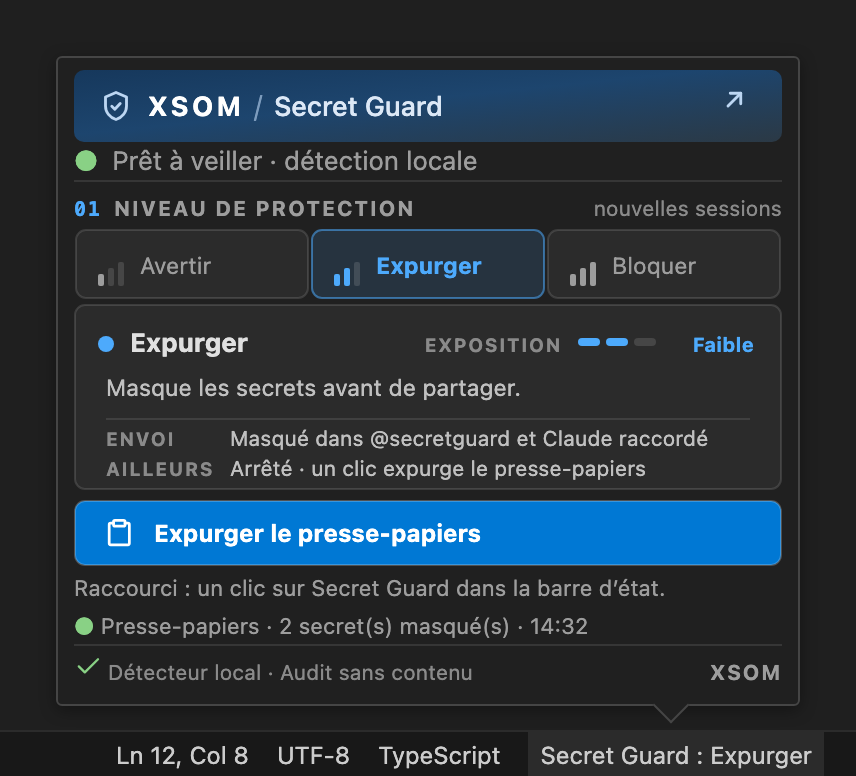
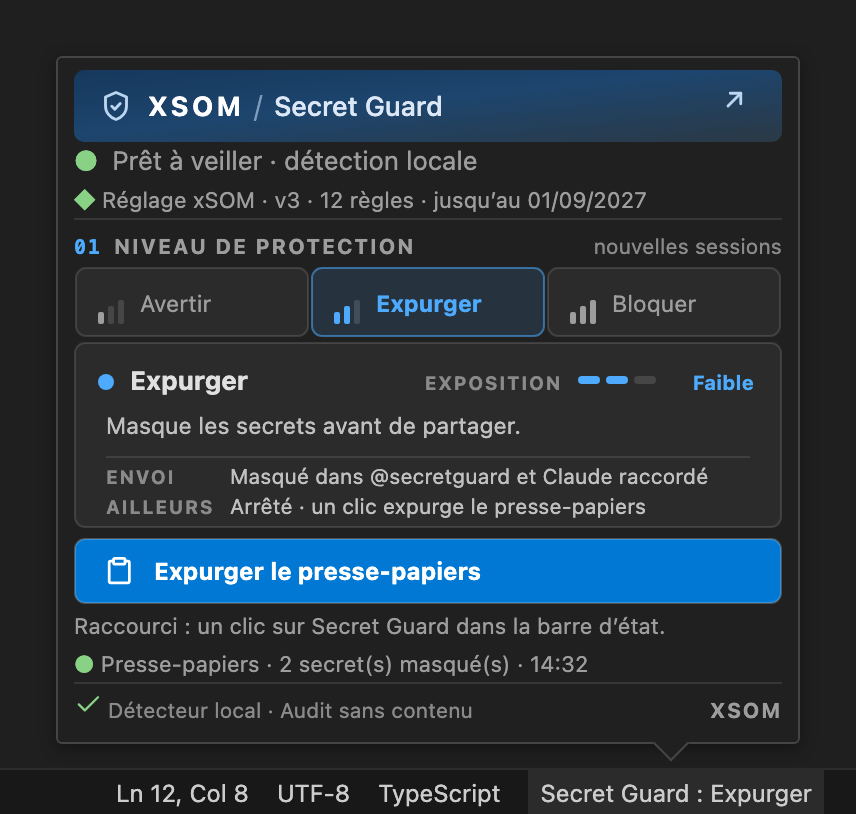
feat(site): Secret Guard 0.7, réglages sur mesure disponibles
La clé d'autorité xSOM est en place et la plateforme déployée : « pilote »
disparaît des réglages sur mesure (page Secret Guard, offres, gamme,
console), et « poste compatible » devient un poste à jour. L'image du
panneau est régénérée depuis l'extension 0.7.0, poste Équipe avec la
ligne du réglage xSOM ; la carte des boutons suit.

diff --git a/frontend/components/guard-offers-copy.ts b/frontend/components/guard-offers-copy.ts
@@ -9,7 +9,7 @@ export const GUARD_OFFERS_COPY = {
     intro: "Commencez gratuitement. Évaluez le cadre d’équipe sur vos usages. Choisissez ensuite le niveau de gouvernance et d’accompagnement dont vous avez besoin.",
     offers: [
       { id: "local", name: "Secret Guard Local", audience: "Pour chaque développeur", price: "0 €", unit: "sans limite de durée", badge: "Gratuit", body: "Retenez les secrets avant leur envoi dans les prompts pris en charge.", features: ["Détection locale, sans envoi au cloud pour analyser", "Sans compte obligatoire ni carte bancaire", "Sans quota de scans locaux"], action: "Installer gratuitement", href: "/secret-guard", note: "Extension VSIX. Les chemins compatibles sont détaillés à l’installation. Le contrôle local reste désactivable par l’utilisateur." },
-      { id: "team", name: "Secret Guard Équipe", audience: "Pour les équipes de développement", price: "24 €", unit: "HT / poste actif / mois · tarif cible", badge: "90 jours de découverte offerts", body: "Donnez aux agents un cadre commun et à votre équipe un interlocuteur cyber.", features: ["Politiques signées et validations ciblées", "Règles sur mesure calibrées et signées par xSOM (pilote)", "État du parc et preuves de décision minimales", "Périmètre et support définis avec xSOM"], action: "Demander mes 90 jours", href: PILOT_MAILTO, note: "Jusqu’à 10 postes, après qualification et accord de pilote. Sans carte. La souscription payante exige votre accord ; aucun prélèvement automatique." },
+      { id: "team", name: "Secret Guard Équipe", audience: "Pour les équipes de développement", price: "24 €", unit: "HT / poste actif / mois · tarif cible", badge: "90 jours de découverte offerts", body: "Donnez aux agents un cadre commun et à votre équipe un interlocuteur cyber.", features: ["Politiques signées et validations ciblées", "Règles sur mesure calibrées et signées par xSOM", "État du parc et preuves de décision minimales", "Périmètre et support définis avec xSOM"], action: "Demander mes 90 jours", href: PILOT_MAILTO, note: "Jusqu’à 10 postes, après qualification et accord de pilote. Sans carte. La souscription payante exige votre accord ; aucun prélèvement automatique." },
       { id: "reinforced", name: "Secret Guard Renforcé", audience: "Pour les environnements sensibles", price: "Sur devis", unit: "Prestation de conseil xSOM, chiffrée sur votre périmètre", badge: "Accompagnement conseil", body: "Ajoutez un environnement contraint au cadre d’équipe, déployé avec les consultants xSOM.", features: ["Socle Équipe et session de travail isolée", "Restrictions de fichiers, privilèges et réseau", "Déploiement et engagements de service sur devis"], action: "Demander un devis", href: REINFORCED_MAILTO, note: "Référence Linux validée localement. macOS, Windows et gestion de parc à qualifier. Intégration et exploitation chiffrées séparément." },
     ],
     priceNote: "Tarifs cibles de lancement, confirmés par devis avant toute souscription. Les abonnements aux assistants IA restent à votre charge. La découverte porte sur la licence Équipe ; toute prestation spécifique fait l’objet d’un devis préalable.",
@@ -28,7 +28,7 @@ export const GUARD_OFFERS_COPY = {
     intro: "Start for free. Evaluate team governance in your own workflows. Then choose the governance and support your organisation needs.",
     offers: [
       { id: "local", name: "Secret Guard Local", audience: "For every developer", price: "€0", unit: "with no time limit", badge: "Free", body: "Hold secrets back before they leave in supported prompts.", features: ["Local detection, no cloud upload for analysis", "No mandatory account or payment card", "No local scan quota"], action: "Install for free", href: "/secret-guard", note: "VSIX extension. Supported paths are detailed at installation. The user can disable the local control." },
-      { id: "team", name: "Secret Guard Team", audience: "For development teams", price: "€24", unit: "excl. VAT / active workstation / month · target price", badge: "90 days of free discovery", body: "Give agents shared rules and your team an accountable security partner.", features: ["Signed policies and focused approvals", "Custom rules calibrated and signed by xSOM (pilot)", "Fleet posture and minimal decision evidence", "Scope and support agreed with xSOM"], action: "Request my 90 days", href: PILOT_MAILTO, note: "Up to 10 workstations, after qualification and a pilot agreement. No card. Paid subscriptions require your agreement; no automatic charge." },
+      { id: "team", name: "Secret Guard Team", audience: "For development teams", price: "€24", unit: "excl. VAT / active workstation / month · target price", badge: "90 days of free discovery", body: "Give agents shared rules and your team an accountable security partner.", features: ["Signed policies and focused approvals", "Custom rules calibrated and signed by xSOM", "Fleet posture and minimal decision evidence", "Scope and support agreed with xSOM"], action: "Request my 90 days", href: PILOT_MAILTO, note: "Up to 10 workstations, after qualification and a pilot agreement. No card. Paid subscriptions require your agreement; no automatic charge." },
       { id: "reinforced", name: "Secret Guard Reinforced", audience: "For sensitive environments", price: "On quote", unit: "xSOM consulting engagement, priced for your scope", badge: "Consulting engagement", body: "Add a constrained environment to team governance, deployed with xSOM consultants.", features: ["Team foundation and isolated work session", "File, privilege and network restrictions", "Quoted deployment and service commitments"], action: "Request a quote", href: REINFORCED_MAILTO, note: "Linux reference validated locally. macOS, Windows and fleet management require qualification. Integration and operations are quoted separately." },
     ],
     priceNote: "Target launch prices, confirmed by a quote before subscription. AI assistant subscriptions remain your expense. Discovery covers the Team licence; any custom services require a prior quote.",

diff --git a/frontend/components/rules/rules-copy.ts b/frontend/components/rules/rules-copy.ts
@@ -23,7 +23,7 @@ const FR = {
     operatorLink: "Atelier opérateur xSOM →",
     emptyTitle: "Aucun réglage sur mesure pour l’instant",
     emptyBody:
-      "Le réglage fait partie de Secret Guard Équipe : xSOM calibre des détecteurs sur vos identifiants clients, noms de projets et formats internes, et les signe ; un poste compatible les applique sans réseau. Les règles intégrées restent actives dans tous les cas.",
+      "Le réglage fait partie de Secret Guard Équipe : xSOM calibre des détecteurs sur vos identifiants clients, noms de projets et formats internes, et les signe ; un poste en Secret Guard 0.7 ou plus récent les applique sans réseau. Les règles intégrées restent actives dans tous les cas.",
     status: "État du réglage",
     version: "Version",
     validity: "Valide jusqu’au",
@@ -31,13 +31,13 @@ const FR = {
     digest: "Empreinte du paquet",
     key: "Clé d’autorité",
     published: "Publié le",
-    expired: "Expiré : un poste compatible l’applique encore et le signale",
+    expired: "Expiré : un poste l’applique encore et le signale",
     revoked: "Retiré de la distribution",
     active: "En distribution",
     chainOk: "Historique des publications chaîné et intact.",
     chainBroken: "ALERTE : l’historique des publications ne se vérifie plus.",
     signatureNote:
-      "Un poste compatible n’accepte que la clé d’autorité xSOM intégrée à son extension : un paquet modifié ou signé ailleurs y est refusé.",
+      "Un poste n’accepte que la clé d’autorité xSOM intégrée à son extension : un paquet modifié ou signé ailleurs y est refusé.",
     coverage: "Postes",
     upToDate: "à jour",
     behind: "en retard",
@@ -235,7 +235,7 @@ const EN: RulesCopy = {
     operatorLink: "xSOM operator workshop →",
     emptyTitle: "No custom tuning yet",
     emptyBody:
-      "Tuning is part of Secret Guard Team: xSOM calibrates detectors on your customer identifiers, project names and internal formats, and signs them; a compatible workstation applies them without network access. Built-in rules stay active either way.",
+      "Tuning is part of Secret Guard Team: xSOM calibrates detectors on your customer identifiers, project names and internal formats, and signs them; a workstation on Secret Guard 0.7 or later applies them without network access. Built-in rules stay active either way.",
     status: "Tuning status",
     version: "Version",
     validity: "Valid until",
@@ -243,13 +243,13 @@ const EN: RulesCopy = {
     digest: "Pack digest",
     key: "Authority key",
     published: "Published",
-    expired: "Expired: a compatible workstation still applies it and reports it",
+    expired: "Expired: a workstation still applies it and reports it",
     revoked: "Withdrawn from distribution",
     active: "Distributed",
     chainOk: "Publication history is chained and intact.",
     chainBroken: "ALERT: the publication history no longer verifies.",
     signatureNote:
-      "A compatible workstation only accepts the xSOM authority key built into its extension: a modified pack, or one signed elsewhere, is rejected there.",
+      "A workstation only accepts the xSOM authority key built into its extension: a modified pack, or one signed elsewhere, is rejected there.",
     coverage: "Workstations",
     upToDate: "up to date",
     behind: "behind",

diff --git a/frontend/components/products/products-copy.ts b/frontend/components/products/products-copy.ts
@@ -30,7 +30,7 @@ export const PRODUCTS_COPY = {
         tag: "01 · Extension VS Code",
         name: "Secret Guard",
         lead: "Profitez des agents de code en entreprise, sans exposer vos secrets.",
-        body: "Secret Guard filtre sur le poste ce que vos développeurs envoient à GitHub Copilot, Claude Code et Codex. L’édition Local est gratuite ; Équipe ajoute des validations, des preuves et, en pilote, des règles calibrées et signées par xSOM.",
+        body: "Secret Guard filtre sur le poste ce que vos développeurs envoient à GitHub Copilot, Claude Code et Codex. L’édition Local est gratuite ; Équipe ajoute des validations, des preuves et des règles calibrées et signées par xSOM.",
         features: ["Filtrage déterministe, sans LLM", "Usage inchangé, analyse en quelques millisecondes", "Éditions Local, Équipe et Renforcé"],
         primary: { label: "Découvrir Secret Guard", href: "/secret-guard" },
         secondary: { label: "Voir les éditions", href: "#offres" },
@@ -64,7 +64,7 @@ export const PRODUCTS_COPY = {
         tag: "01 · VS Code extension",
         name: "Secret Guard",
         lead: "Use AI coding agents at work without exposing your secrets.",
-        body: "Secret Guard filters, on the workstation, what your developers send to GitHub Copilot, Claude Code and Codex. The Local edition is free; Team adds approvals, evidence and, in pilot, rules calibrated and signed by xSOM.",
+        body: "Secret Guard filters, on the workstation, what your developers send to GitHub Copilot, Claude Code and Codex. The Local edition is free; Team adds approvals, evidence and rules calibrated and signed by xSOM.",
         features: ["Deterministic filtering, no LLM", "Same workflow, checked in milliseconds", "Local, Team and Reinforced editions"],
         primary: { label: "Discover Secret Guard", href: "/secret-guard" },
         secondary: { label: "See the editions", href: "#offres" },

diff --git a/frontend/components/secret-guard/secret-guard-copy.ts b/frontend/components/secret-guard/secret-guard-copy.ts
@@ -32,7 +32,7 @@ export const SECRET_GUARD_COPY = {
         ["Entropie", "Les chaînes trop aléatoires"],
         ["Réglage sur mesure", "Vos données clients · signé par xSOM"],
       ],
-      team: "Équipe · pilote",
+      team: "Équipe",
       sent: "Envoyé",
       masked: "‹ secret masqué ›",
       promptLine: "Déploie avec",
@@ -94,7 +94,7 @@ export const SECRET_GUARD_COPY = {
         ["Entropy", "Strings too random to be text"],
         ["Custom tuning", "Your customer data · signed by xSOM"],
       ],
-      team: "Team · pilot",
+      team: "Team",
       sent: "Sent",
       masked: "‹ secret masked ›",
       promptLine: "Deploy with",

diff --git a/frontend/app/(app)/extensions/page.tsx b/frontend/app/(app)/extensions/page.tsx
@@ -191,7 +191,7 @@ export default function ExtensionsPage() {
         </div>
         <p className="console-note">
           Secret Guard Équipe : des règles calibrées par xSOM sur vos
-          identifiants et projets, signées, que les postes compatibles
+          identifiants et projets, signées, que les postes à jour de Secret Guard
           vérifient puis appliquent hors ligne. Vous les lisez ; xSOM les
           ajuste à votre demande.
         </p>

diff --git a/docs/ai-guard/CLAIMS.md b/docs/ai-guard/CLAIMS.md
@@ -73,7 +73,7 @@ elles le disent.
 | P6 | Sans clé d'autorité, rien n'est signé (fermé) ; un motif trop coûteux est refusé, pas signé | `tests/test_rules_packs_api.py::test_publishing_fails_closed_without_a_signing_key`, `tests/test_rules_packs.py::test_an_explosive_pattern_is_refused_even_with_harmless_tests`, `tests/test_rules_packs.py::test_a_pattern_slow_on_the_probe_texts_is_refused`, `tests/test_rules_packs.py::test_the_isolated_engine_is_killed_past_its_budget`, `tests/test_rules_packs_api.py::test_a_bad_or_reused_signing_key_refuses_to_boot` | Prouvé (borne statique et épreuve chronométrée ; un motif sous la borne peut rester lent sur un prompt de 1 Mio fait d'une seule suite de lettres) |
 | P7 | Historique des réglages en ajout seul, chaîné, versions strictement croissantes | `tests/test_rules_packs_api.py::test_history_is_append_only_monotonic_and_chained`, `tests/test_rules_packs_api.py::test_revocation_is_its_own_record_and_stops_distribution` | Prouvé |
 | P8 | Console client : « N / M postes à jour », en retard, refusé | `tests/test_rules_packs_api.py::test_workstations_report_the_applied_pack_and_the_console_counts_them`, `frontend/e2e/rules-pack.spec.ts` (lecture seule, aucun champ) | Prouvé — « à jour » reste une **déclaration du poste**, et l'écran le dit |
-| P9 | « Le poste vérifie la signature hors ligne avant d'appliquer » (page Secret Guard), et dans la console : « les postes compatibles vérifient puis appliquent hors ligne », « un réglage n'ajoute que des protections », « expiré : un poste compatible l'applique encore » | chaîne complète : `tests/test_rules_pack_cross_product.py::test_the_platform_signs_exactly_the_pack_the_workstation_test_applies` (la plateforme produit l'enveloppe figée que `secret-guard/tests/runner/platform-signed-pack.test.ts` accepte, applique et masque) ; `tests/test_rules_pack_contract.py::test_a_key_carried_by_the_envelope_is_never_trusted` ; côté poste, `secret-guard/tests/runner/rules-pack.test.ts` et `secret-guard/tests/core/rules-scan.test.ts` (Secret Guard 0.7.0) | Prouvé dans le code ; Secret Guard 0.7.0 n'est pas encore publiée, les textes restent marqués « pilote » |
+| P9 | « Le poste vérifie la signature hors ligne avant d'appliquer » (page Secret Guard), et dans la console : « les postes compatibles vérifient puis appliquent hors ligne », « un réglage n'ajoute que des protections », « expiré : un poste compatible l'applique encore » | chaîne complète : `tests/test_rules_pack_cross_product.py::test_the_platform_signs_exactly_the_pack_the_workstation_test_applies` (la plateforme produit l'enveloppe figée que `secret-guard/tests/runner/platform-signed-pack.test.ts` accepte, applique et masque) ; `tests/test_rules_pack_contract.py::test_a_key_carried_by_the_envelope_is_never_trusted` ; côté poste, `secret-guard/tests/runner/rules-pack.test.ts` et `secret-guard/tests/core/rules-scan.test.ts` (Secret Guard 0.7.0) | Prouvé ; livré avec Secret Guard 0.7.0 et la plateforme déployée le 27 septembre 2026 (clé d'autorité en place) |
 | P10 | « État du parc et preuves de décision minimales » | `tests/test_extension_devices.py::test_content_free_posture_is_visible_in_inventory`, `tests/test_extension_devices.py::test_registration_deduplication_revocation_and_rls` | Partiel — la posture déclarée et la chaîne des événements de poste sont prouvées ; la « preuve de décision » côté poste relève de l'extension |
 
 ## Promesses commerciales ou non testables ce soir

diff --git a/frontend/public/signal-media/secret-guard-tooltip.md b/frontend/public/signal-media/secret-guard-tooltip.md
@@ -1,6 +1,6 @@
 # Tooltip Secret Guard
 
-- Rendu depuis `statusTooltipMarkdown` de l’extension 0.6.1 (`secret-guard/packages/vscode/src/status-tooltip.ts`), cadre VS Code Dark Modern, à 2×.
-- État de démonstration : protection active, niveau Expurger, presse-papiers nettoyé de deux secrets à 14:32.
+- Rendu depuis `statusTooltipMarkdown` de l’extension 0.7.0 (`secret-guard/packages/vscode/src/status-tooltip.ts`), cadre VS Code Dark Modern, à 2×.
+- État de démonstration : poste Équipe protégé, réglage xSOM v3 appliqué, niveau Expurger, presse-papiers nettoyé de deux secrets à 14:32.
 - La position de chaque bouton est relevée dans `frontend/components/secret-guard/tooltip-map.json`, que la page `/secret-guard` lit pour ses légendes.
 - Reproduction : `node scripts/render-secret-guard-tooltip.mjs [dossier de l’extension]`.
